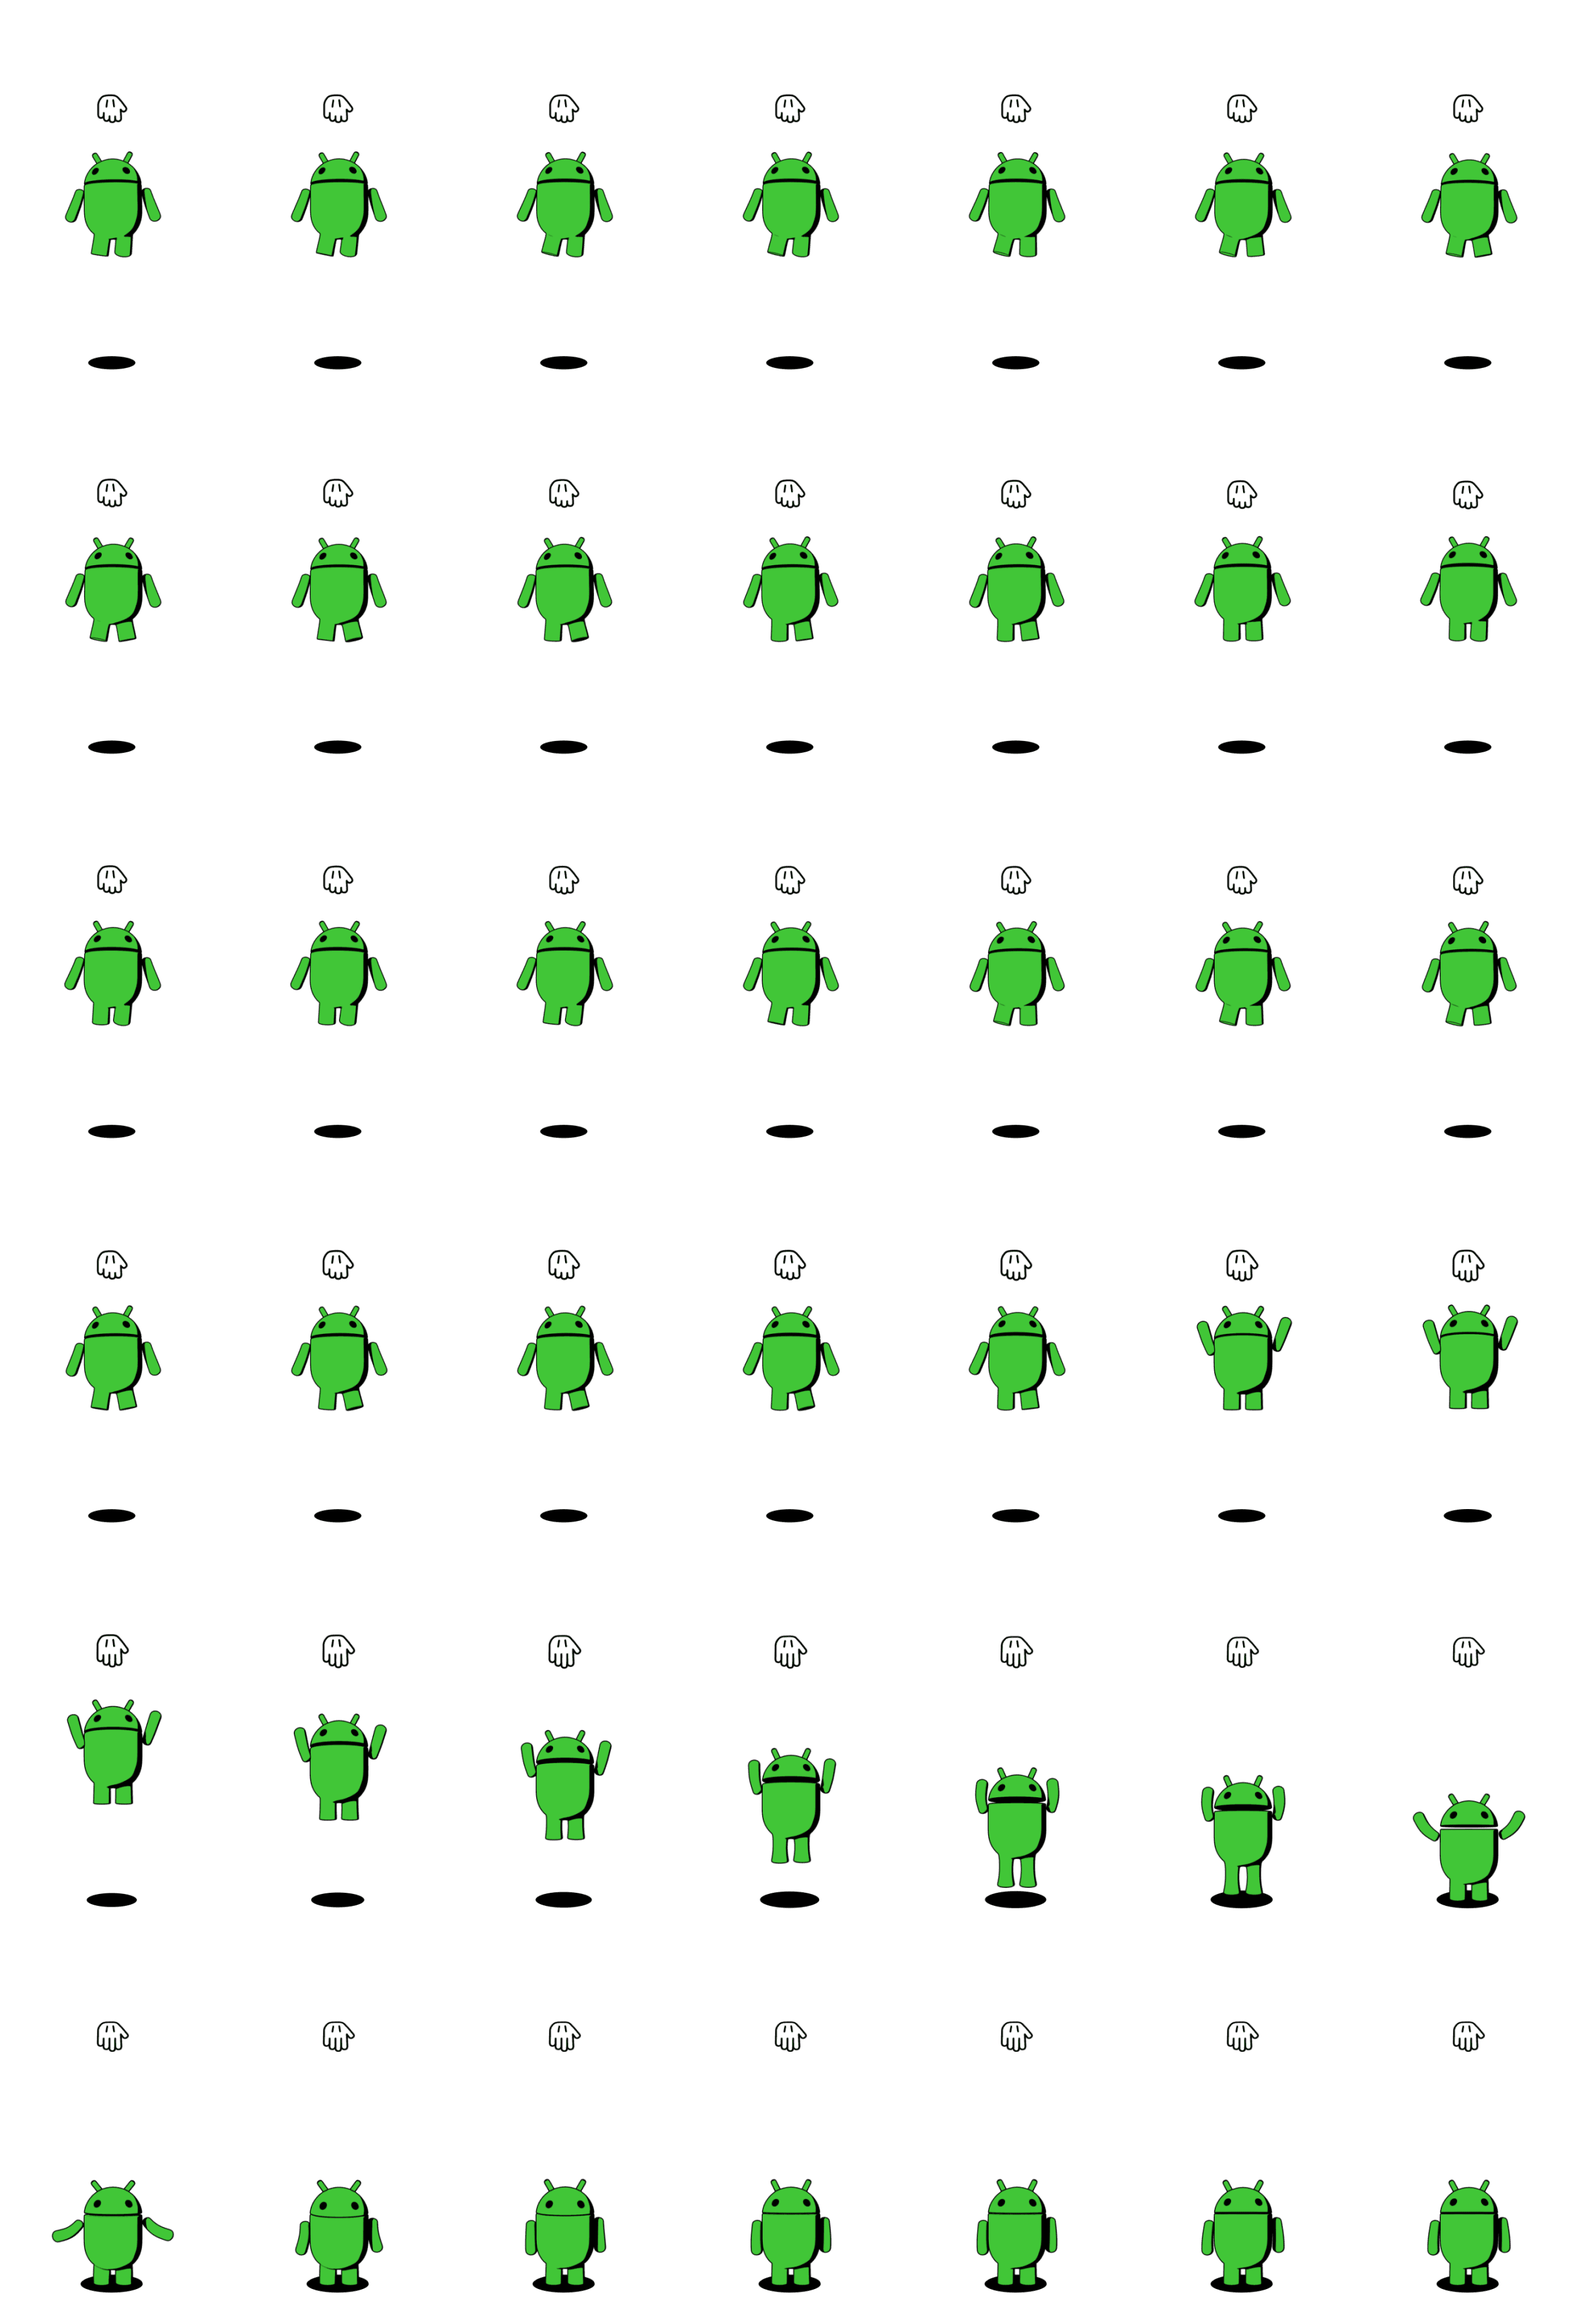
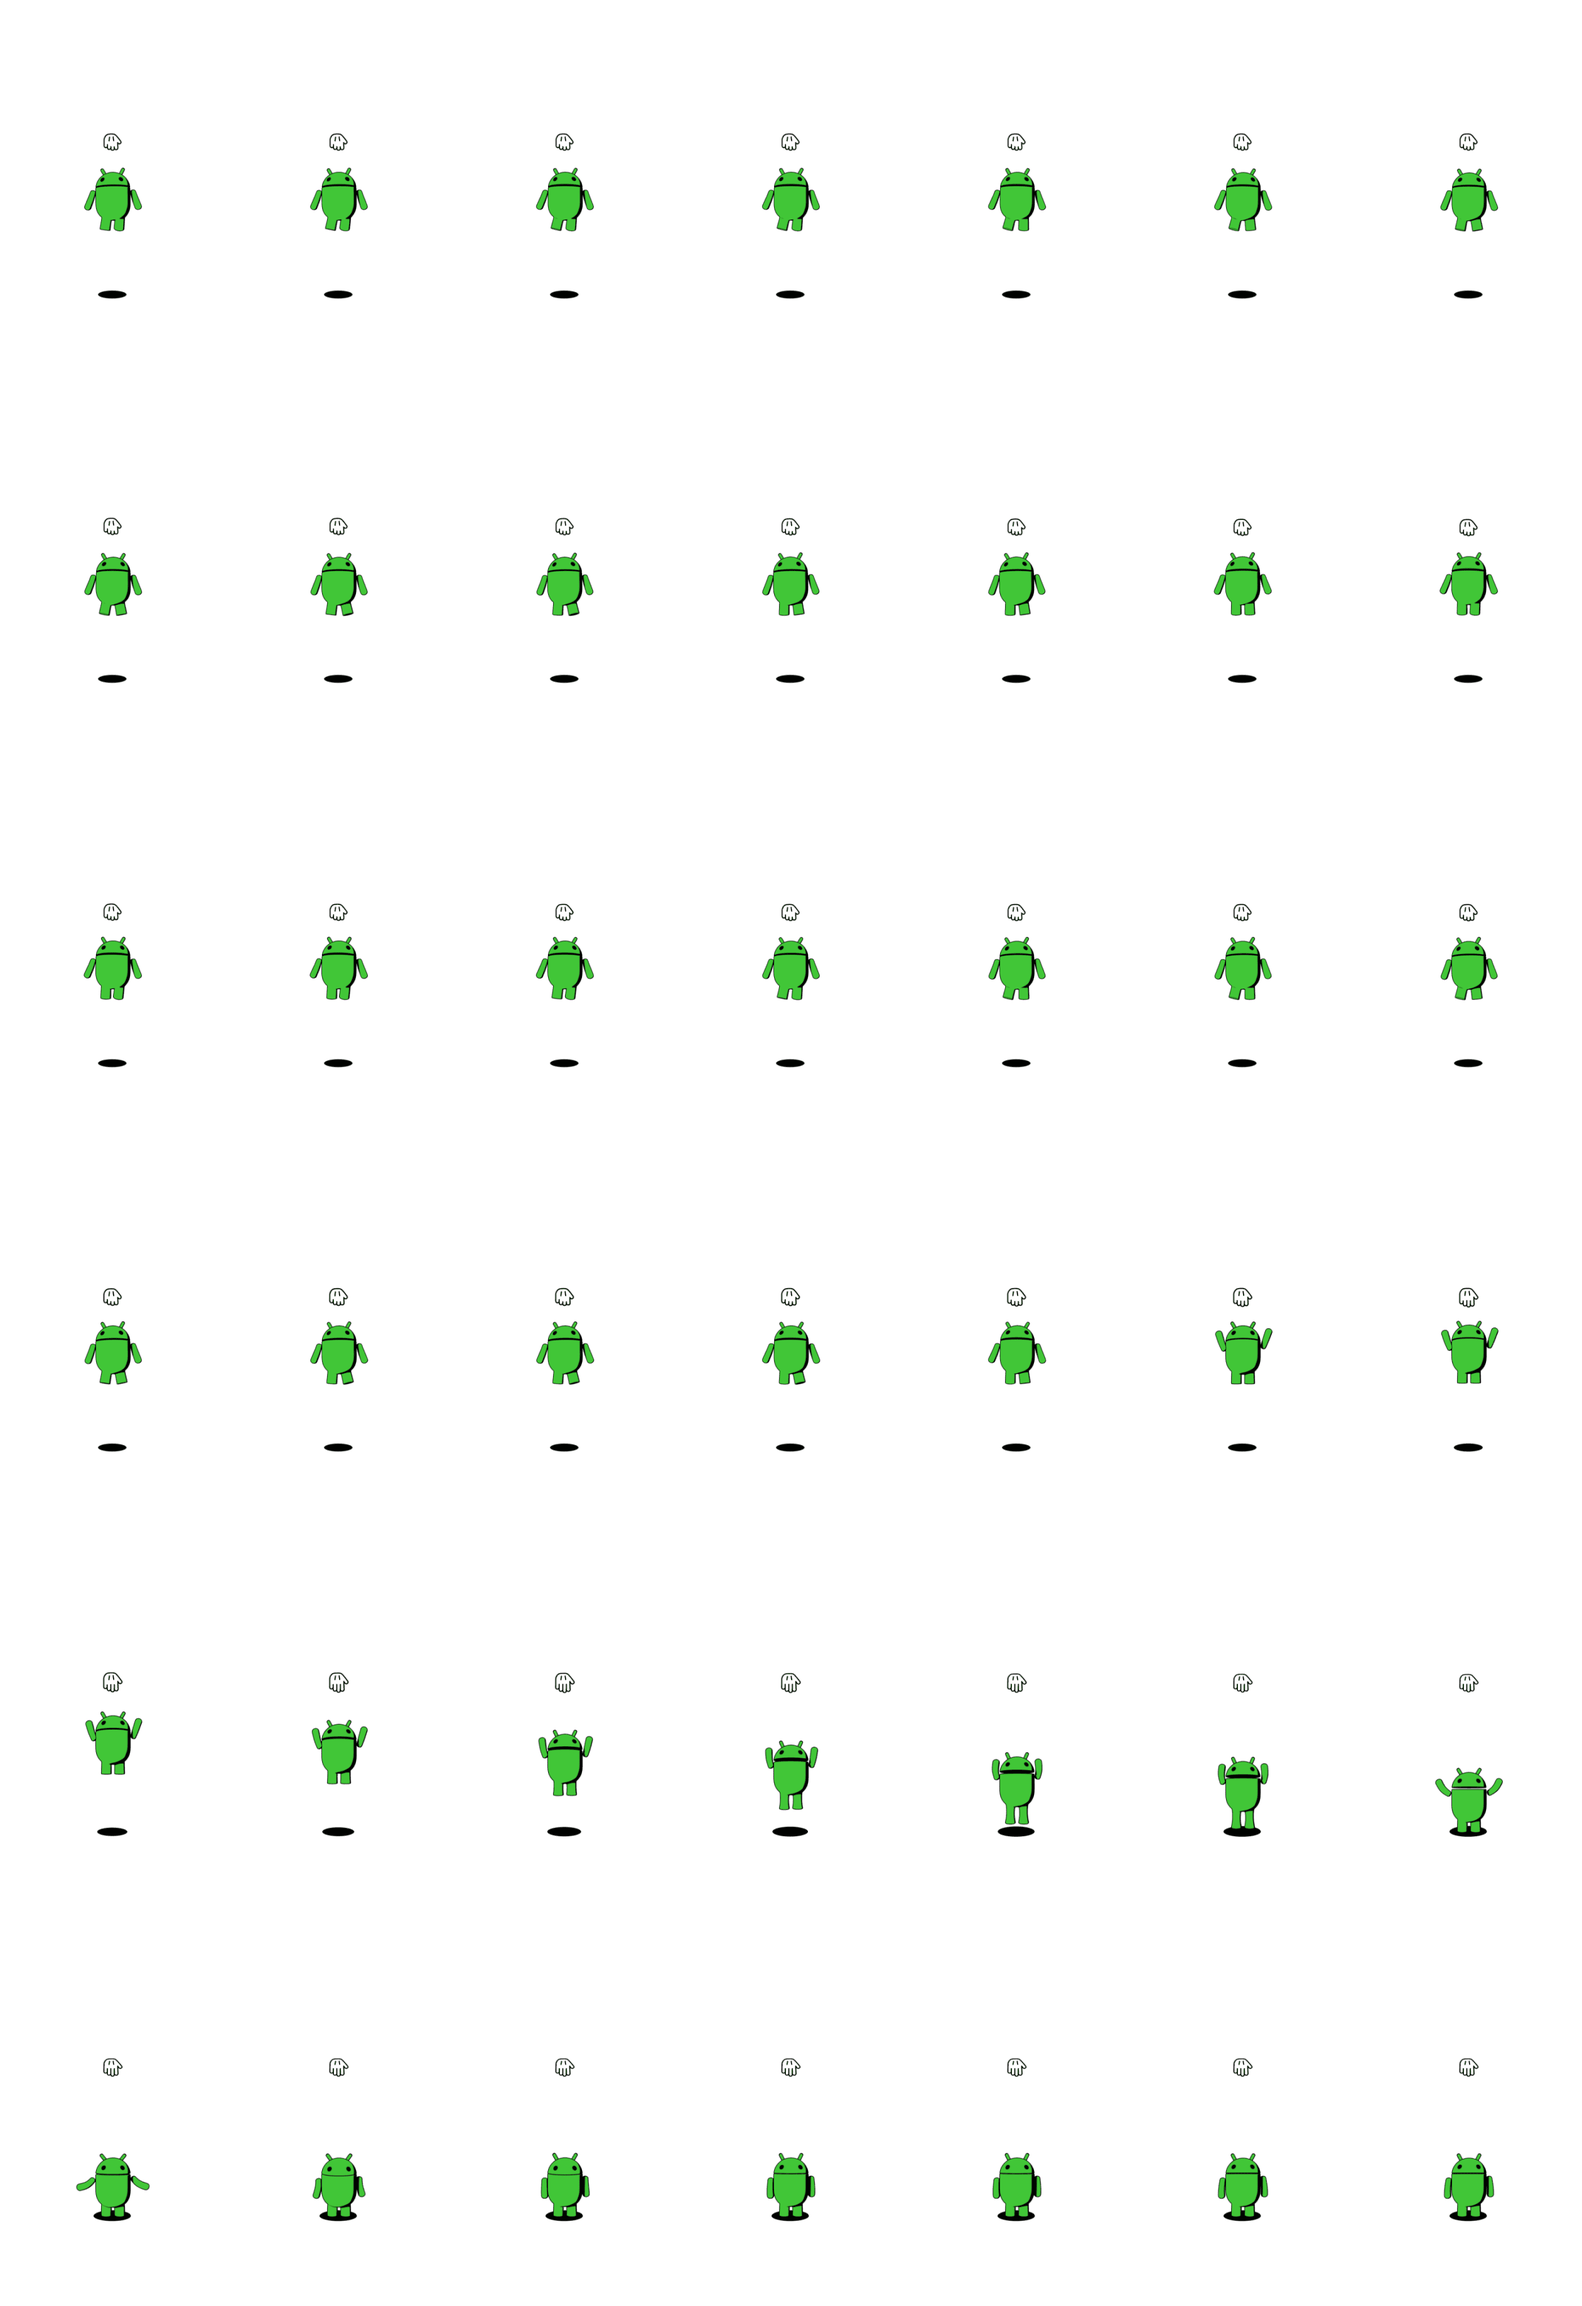
chore: update android assets

diff --git a/lib/team_selection/teams/android_team.dart b/lib/team_selection/teams/android_team.dart
@@ -58,8 +58,8 @@ class AndroidTeam extends Team {
   @override
   SpriteInformation get pickUpSpriteInformation => SpriteInformation(
         path: pickUpAnimation.path,
-        rows: 11,
-        columns: 6,
+        rows: 18,
+        columns: 4,
         stepTime: 0.042,
         width: 360,
         height: 612,
@@ -68,8 +68,8 @@ class AndroidTeam extends Team {
   @override
   SpriteInformation get dangleSpriteInformation => SpriteInformation(
         path: dangleAnimation.path,
-        rows: 11,
-        columns: 4,
+        rows: 7,
+        columns: 6,
         stepTime: 0.042,
         width: 360,
         height: 612,
